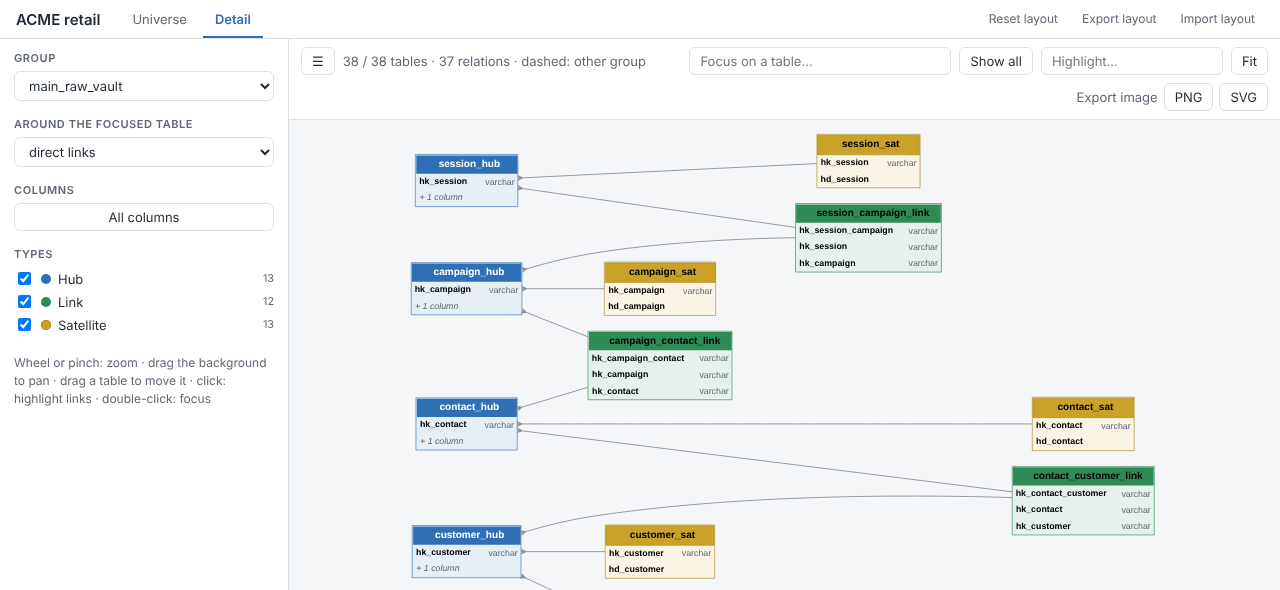
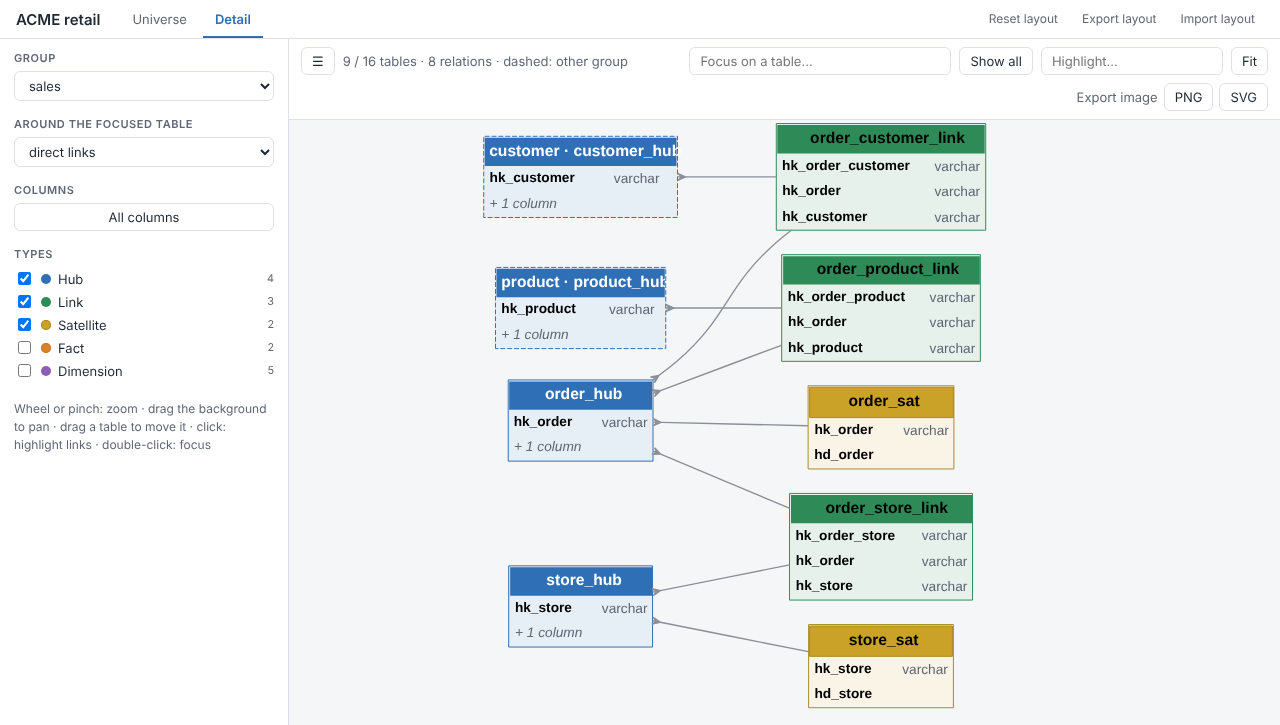
docs(docs): retake the screenshots for the medallion example
The seven images of docs/images/ showed the example before M5.12
(groups main_raw_vault and main_marts, staging). They are retaken from
the offline page of the current example, as docs/images/README.md
describes: Sources, Bronze, Silver, Gold in the universe and the flow,
the sales group for the vault detail, the customer group for the focus
on dim_customer. Alt texts and two user-guide sentences follow.

Milestone: M5.13

Claude-Session: https://claude.ai/code/session_01SqA5qkXdJTbhtVd8CcuM1T

diff --git a/docs/user-guide.md b/docs/user-guide.md
@@ -703,10 +703,10 @@ Every model, source, seed and snapshot of the project as a star, grouped into on
 ### Reading the map
 
 - **From afar**: the domains, their size, and the routes between them: one line per pair of domains, as thick as the number of links, with an arrow along the data flow when lineage says which way it goes. A bar under each domain name shows its mix of kinds.
-- **Closer**: each table, coloured by kind, with its name. Inside each domain, tables sit in **layer bands**, left to right along the data flow (sources, staging, …, marts); faint lines separate the bands when you zoom in, and hovering a domain lists its layers. From afar, a name that would cover another table is hidden; zooming in brings it back.
+- **Closer**: each table, coloured by kind, with its name. Inside each domain, tables sit in **layer bands**, left to right along the data flow (in the example: Sources, Bronze, Silver, Gold); faint lines separate the bands when you zoom in, and hovering a domain lists its layers. From afar, a name that would cover another table is hidden; zooming in brings it back.
 - **The same picture every time**: the same project gives the same placement at every generation.
 
-![The Sales domain at the keys level: sources and staging on the left, then the vault, then the marts](images/universe-domain.png)
+![The Sales domain at the keys level: sources and Bronze on the left, then Silver (hubs, links, satellites), then Gold (dimensions and facts)](images/universe-domain.png)
 
 ### Filters and links
 
@@ -742,14 +742,14 @@ Where a table's data comes from (upstream) and where it goes (downstream), follo
 
 **Flow** in the trajectory bar draws the same trajectory (same start, direction and depth) as a left-to-right diagram: upstream tables on the left, the start in a thick dark frame, downstream tables on the right, every arrow pointing right (dashed violet upstream, solid orange downstream).
 
-- **Tables**: the name on the kind colour, the domain as a colour band on the left edge, then the depth (`−2` is two hops upstream, `+1` one hop downstream) and the layer. Columns follow the lineage, with your layers as a floor, so sources, staging, vault and marts form bands when the lineage follows them.
+- **Tables**: the name on the kind colour, the domain as a colour band on the left edge, then the depth (`−2` is two hops upstream, `+1` one hop downstream) and the layer. Columns follow the lineage, with your layers as a floor, so your layers (in the example: sources, bronze, silver, gold) form bands when the lineage follows them.
 - **The start** stands out at every zoom: a dark ring and a soft glow surround it and keep the same size on screen, so it is found at a glance even on a large flow. Its name in the header is a button that centres the view on it.
 - **Header**: **← Universe**, the start table, **Direction** and **Depth** (they change the flow only), the counts, **N domains** (a legend and each domain with its colour and table count), **Fit** and **Export image** (PNG, SVG).
 - **Recentre**: click a table (or Enter on a focused one) to draw its own flow. The universe trajectory does not move.
 - **Back**: **← Universe** or `Esc` returns to the universe exactly as it was (filters, zoom, trajectory). Nothing is saved.
 - **Limit**: a flow draws at most 150 tables. Above that the depth is reduced to the deepest level that fits, or only the first 149 direct tables are drawn, and the header says so.
 
-![The flow of fct_orders: sources at −4 on the left, staging, vault and dimensions, the start ringed, fct_order_lines at +1](images/flow.png)
+![The flow of fct_orders: sources at −4 on the left, then Bronze, Silver and the Gold dimensions, the start ringed, fct_order_lines at +1](images/flow.png)
 
 ## The detail view
 
@@ -762,9 +762,9 @@ The entity-relationship diagram of one group of tables, drawn by Graphviz.
 - **Columns**: key columns only by default (columns matching `key_columns`, plus every column used by a relation, in bold), with **All columns** for every column. Hover a table for its dbt description.
 - **Highlight**: click a table to highlight its links; type in **Highlight…** to mark tables by name.
 
-![The detail view of the raw vault group: hubs on the left, their satellites and links on the right](images/detail-vault.png)
+![The detail view of the sales group with facts and dimensions unticked: hubs on the left (the customer and product hubs of other groups dashed), their links and satellites on the right](images/detail-vault.png)
 
-![Focus on dim_customer with all columns: dim_country on the left, the facts that refer to it on the right](images/detail-focus.png)
+![Focus on dim_customer in the customer group with all columns: dim_country, the table it refers to, on the left](images/detail-focus.png)
 
 ## Zoom, pan and touch
 

diff --git a/docs/images/README.md b/docs/images/README.md
@@ -8,8 +8,8 @@ Screenshots of the page of the example project `examples/acme_retail`, used by t
 | `universe-domain.png` | Sales domain framed as a double-click does, keys level | user guide § The universe view |
 | `trajectory.png` | trajectory of `fct_orders`, both directions, all levels, then Fit | § Trajectory |
 | `flow.png` | the flow of that trajectory, Fit | § Flow |
-| `detail-vault.png` | detail, group `main_raw_vault`, key columns, zoomed on the first hubs and cut below the last whole row of tables (1280 × 590) | § The detail view |
-| `detail-focus.png` | detail, group `main_marts`, focus on `dim_customer`, direct links, all columns | § The detail view |
+| `detail-vault.png` | detail, group `sales`, key columns, kinds Fact and Dimension unticked (with them the dimension row and the vault block overlap, so no cut keeps every table whole), zoomed out one wheel step from Fit and cut below the last whole row of tables (1280 × 725) | § The detail view |
+| `detail-focus.png` | detail, group `customer`, focus on `dim_customer`, direct links, all columns, zoomed out three wheel steps from Fit | § The detail view |
 | `small-screen.png` | universe at 390 × 844, touch, panel closed | § Zoom, pan and touch |
 
 ## Retaking them
@@ -29,4 +29,4 @@ A page milestone that changes what an image shows retakes it. The text of the gu
 2. Open it in Chromium with a 1280 × 800 CSS px window at device scale 1 (390 × 844 with touch for `small-screen.png`) and set each state of the table above, by hand or with Playwright (`uv run --group browser python …`; the page's own hooks `views.universe.geometry()` and `views.universe.camera()` frame a domain). Take a screenshot of the whole window. The page's own **Export image** is not used: it leaves out the panels and bars a reader needs to recognise.
 3. Optimise: keep the lossless PNG when it is within 200 kB; otherwise quantise it to 256 colours with dithering (for example Pillow: a fast-octree palette, then `quantize(palette=…, dither=FLOYDSTEINBERG)`, saved with `optimize=True`, or `pngquant --quality 70-90`). Look at each image before keeping it: the kind and domain colours must stay true.
 
-The M6.1 images were taken this way by a Playwright script and a Pillow script kept outside the repository (design note § 7, As built).
+The M6.1 images were taken this way by a Playwright script and a Pillow script kept outside the repository (design note § 7, As built). All seven were retaken the same way on 2026-11-05 when the example became a medallion project (bronze, silver and gold layers, domains from schemas).
